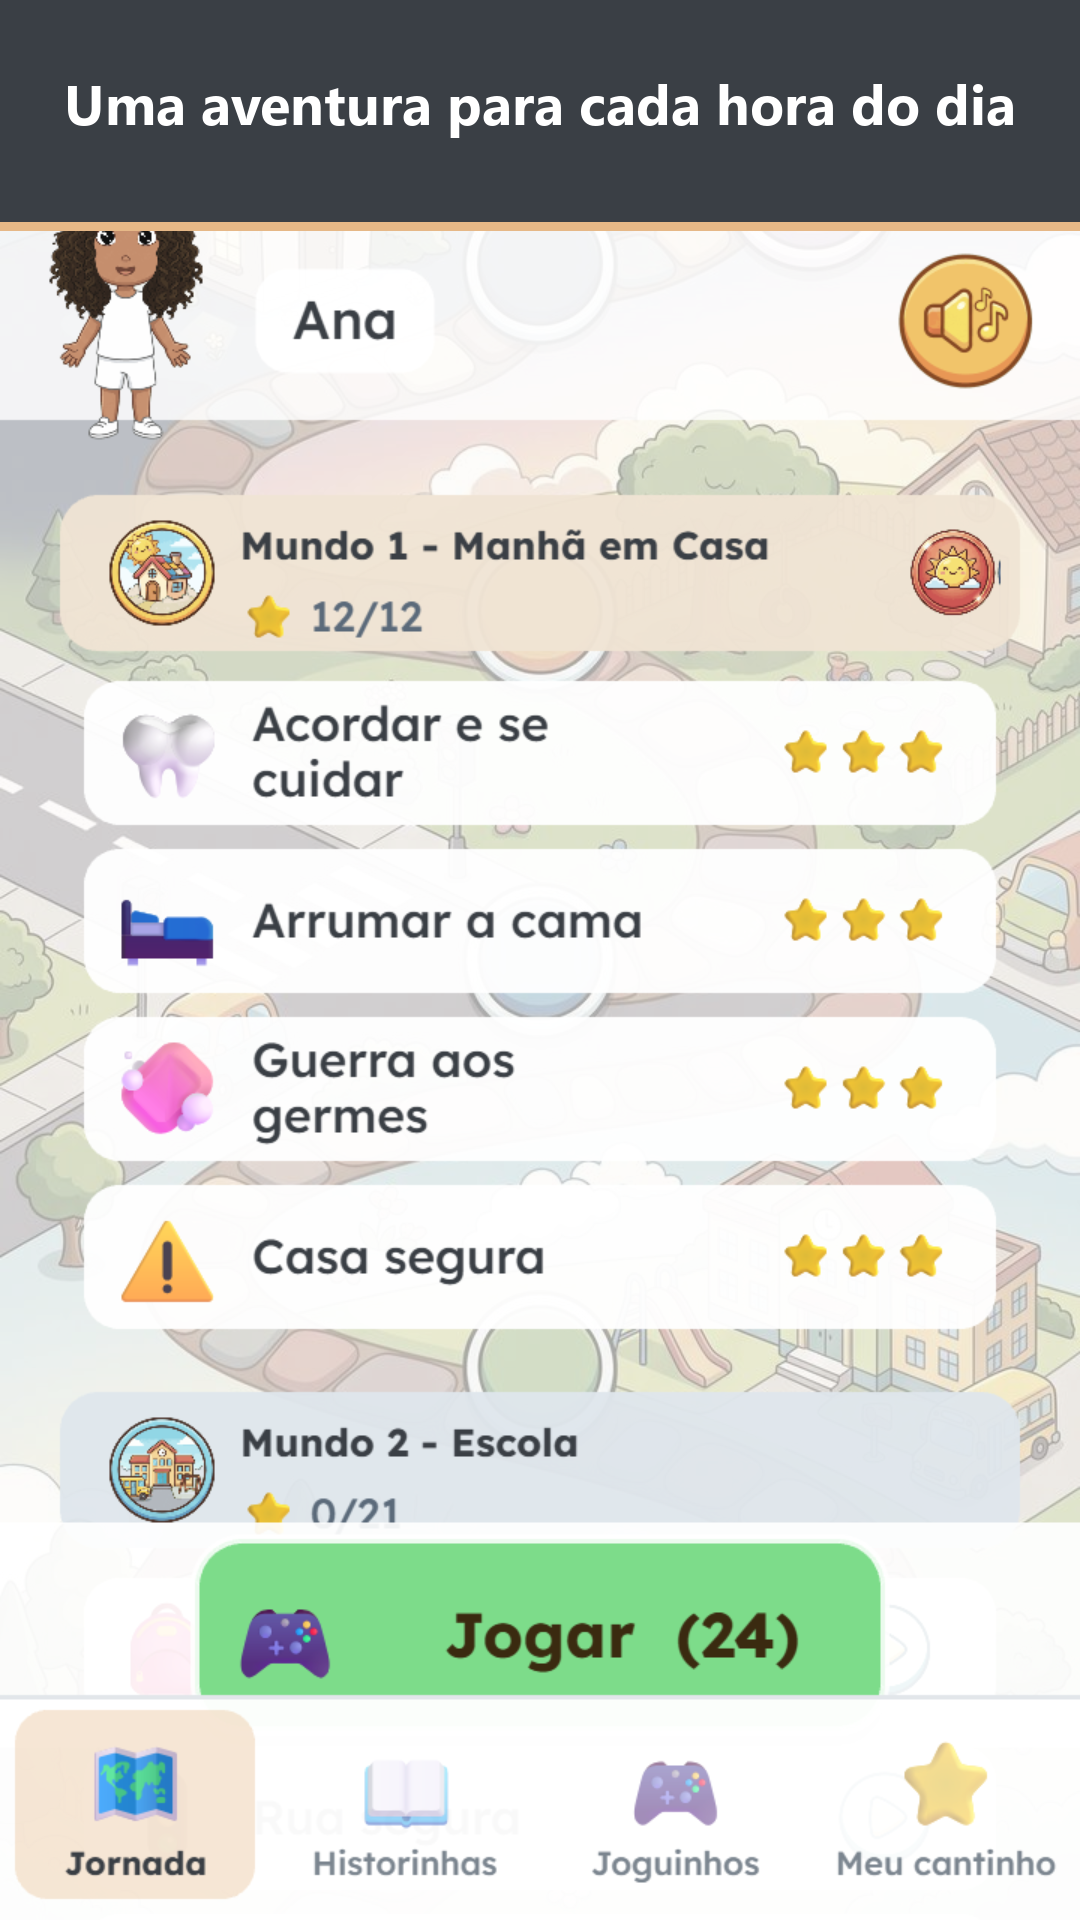
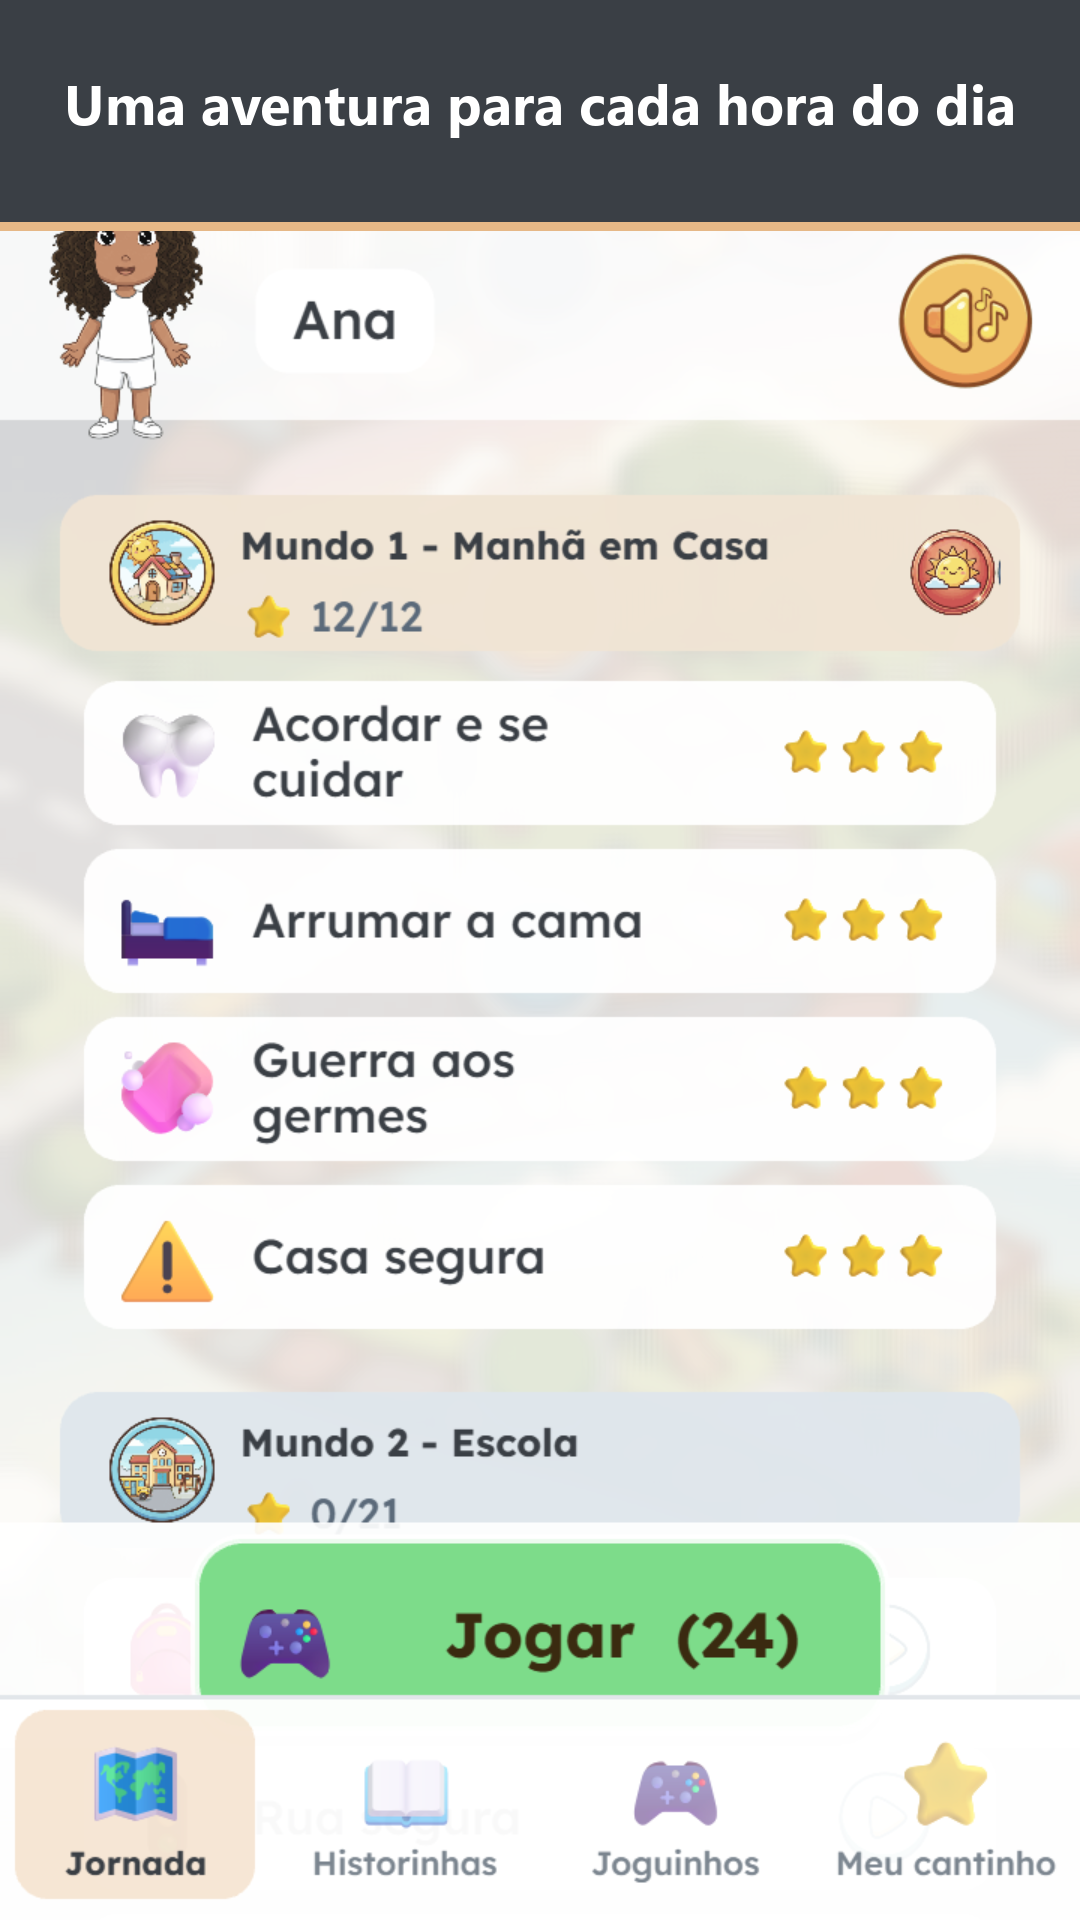
Varredura tela a tela: cartao unico, criador que cabe e memoria com cenario
Rodei as 28 missoes, os 5 mini games e as 10 telas num navegador, com print de
cada uma, e corrigi o que apareceu:

- Criador: a crianca a 1.15 passava por cima do titulo e dos botoes de aba. Com
  o cabelo volumoso nao cabia mesmo entre 120 e 630; agora entra a 0.78.
- Figura e nome eram dois paineis brancos empilhados, que viravam um degrau
  quando o nome tinha duas ou tres linhas ("Secar com a toalha"). Viraram um
  cartao so, que cresce com o texto. Vale para as etapas de ordenar e de tocar.
- "Segure e sopre! Faltam 3" era o unico texto do jogo sem painel: sumia no
  cenario do quarto de noite.
- Memoria era a unica tela sem cenario, um vazio creme no meio de um jogo
  ilustrado. Agora roda no quarto de brincar.
- A escolha de pista do kart era a unica tela escura: veu claro no lugar.

diff --git a/src/scenes/etapas.ts b/src/scenes/etapas.ts
@@ -48,14 +48,20 @@ const tocar: Handler = (c, e) => {
   const alvos = e.alvos ?? e.itens ?? [];
   let faltam = alvos.filter((a) => a.correto !== false).length;
   for (const a of alvos) {
-    // ladrilho claro: sem ele o objeto se perde no cenario
+    // ladrilho claro: sem ele o objeto se perde no cenario. Figura e nome no
+    // mesmo cartao, senao viram dois retangulos brancos em degrau
+    const rotulo = a.texto
+      ? c.cena.add
+          .text(a.x, a.y + 92, a.texto, { fontSize: '26px', align: 'center', wordWrap: { width: 148 } })
+          .setOrigin(0.5, 0)
+      : null;
     const base = c.cena.add.graphics();
     base.fillStyle(0xffffff, 0.97);
-    base.fillRoundedRect(a.x - 82, a.y - 82, 164, 164, 26);
+    base.fillRoundedRect(a.x - 82, a.y - 82, 164, 164 + (rotulo ? rotulo.height + 24 : 0), 26);
     c.camada.add(base);
     const f = figura(c.cena, a.x, a.y, a.img, a.icone, 140);
     c.camada.add(f);
-    if (a.texto) c.camada.add(textoEmPainel(c.cena, a.x, a.y + 124, a.texto, 26, 190));
+    if (rotulo) c.camada.add(rotulo);
     const zona = area(c.cena, a.x, a.y + 24, 184, 236, undefined, a.fala ?? a.texto);
     c.camada.add(zona);
     zona.on('pointerdown', () => {
@@ -273,9 +279,16 @@ const sequencia: Handler = (c, e) => {
   const itens = e.itens ?? [];
   let proximo = 0;
   itens.forEach((it, i) => {
+    // figura e nome no mesmo cartao: dois paineis brancos empilhados viravam
+    // um degrau feio quando o nome tinha duas ou tres linhas
+    const rotulo = it.texto
+      ? c.cena.add
+          .text(it.x, it.y + 92, it.texto, { fontSize: '26px', align: 'center', wordWrap: { width: 148 } })
+          .setOrigin(0.5, 0)
+      : null;
     const base = c.cena.add.graphics();
     base.fillStyle(0xffffff, 0.97);
-    base.fillRoundedRect(it.x - 82, it.y - 82, 164, 164, 26);
+    base.fillRoundedRect(it.x - 82, it.y - 82, 164, 164 + (rotulo ? rotulo.height + 24 : 0), 26);
     c.camada.add(base);
     const f = figura(c.cena, it.x, it.y, it.img, it.icone, 130);
     c.camada.add(f);
@@ -284,7 +297,7 @@ const sequencia: Handler = (c, e) => {
       .setOrigin(0.5)
       .setStroke('#ffffff', 8);
     c.camada.add(num);
-    if (it.texto) c.camada.add(textoEmPainel(c.cena, it.x, it.y + 124, it.texto, 26, 190));
+    if (rotulo) c.camada.add(rotulo);
     const zona = area(c.cena, it.x, it.y + 24, 184, 236, undefined, it.fala ?? it.texto);
     c.camada.add(zona);
     zona.on('pointerdown', () => {
@@ -308,9 +321,17 @@ const respirar: Handler = (c, e) => {
   let feitas = 0;
   const bola = c.cena.add.circle(W / 2, 760, 70, 0x8fd6ff, 0.9);
   const rotulo = c.cena.add
-    .text(W / 2, 1000, `Segure e sopre! Faltam ${total}`, { fontSize: '40px', color: '#2b3a4a' })
+    .text(W / 2, 980, `Segure e sopre! Faltam ${total}`, { fontSize: '40px', color: '#2b3a4a' })
     .setOrigin(0.5);
-  c.camada.add([bola, rotulo]);
+  // sem painel branco a frase sumia no cenario, como em toda outra etapa
+  const fundo = c.cena.add.graphics();
+  const pintar = () => {
+    fundo.clear();
+    fundo.fillStyle(0xffffff, 0.96);
+    fundo.fillRoundedRect(W / 2 - rotulo.width / 2 - 24, rotulo.y - rotulo.height / 2 - 12, rotulo.width + 48, rotulo.height + 24, 20);
+  };
+  pintar();
+  c.camada.add([bola, fundo, rotulo]);
   let tween: Phaser.Tweens.Tween | null = null;
 
   const zona = c.cena.add.zone(W / 2, 760, 420, 420).setInteractive({ useHandCursor: true });
@@ -332,6 +353,7 @@ const respirar: Handler = (c, e) => {
     feitas += 1;
     nota(880);
     rotulo.setText(feitas >= total ? 'Que calma boa!' : `Segure e sopre! Faltam ${total - feitas}`);
+    pintar();
     if (feitas >= total) c.cena.time.delayedCall(900, c.fim);
   });
 };

diff --git a/src/musica.ts b/src/musica.ts
@@ -25,25 +25,47 @@ const tocar = (som: HTMLAudioElement) =>
     window.addEventListener('pointerdown', retomar, { once: true });
   });
 
-/** Troca a faixa de fundo. A mesma chave duas vezes nao reinicia a musica. */
+/** Sobe ou desce o volume aos poucos; no fim de uma descida, pausa o som. */
+function esmaecer(som: HTMLAudioElement, ate: number, ms: number) {
+  const de = som.volume;
+  const passo = 50;
+  let passados = 0;
+  const t = setInterval(() => {
+    passados += passo;
+    const q = Math.min(1, passados / ms);
+    som.volume = Math.max(0, Math.min(1, de + (ate - de) * q));
+    if (q < 1) return;
+    clearInterval(t);
+    if (ate === 0) som.pause();
+  }, passo);
+}
+
+/**
+ * Troca a faixa de fundo. A mesma chave duas vezes nao reinicia a musica.
+ *
+ * A troca e esmaecida nos dois lados: cortar no seco da um clique audivel e,
+ * pior, chama a atencao da crianca para a troca de tela.
+ */
 export function musica(chave: string) {
   if (chave === chaveAtual) return;
   chaveAtual = chave;
-  tocando?.pause();
+  const antiga = tocando;
+  if (antiga) esmaecer(antiga, 0, 400);
   tocando = null;
   const url = ligada ? AUDIOS[chave] : undefined;
   if (!url) return;
   const som = new Audio(url);
   som.loop = true;
-  som.volume = volumeBase;
+  som.volume = 0;
   tocando = som;
   tocar(som);
+  esmaecer(som, volumeBase, 600);
 }
 
 /** Abaixa a musica enquanto outra coisa toca por cima (o timer musical). */
 export function abafarMusica(abafar: boolean) {
   volumeBase = abafar ? 0.12 : 0.35;
-  if (tocando) tocando.volume = volumeBase;
+  if (tocando) esmaecer(tocando, volumeBase, 300);
 }
 
 /** Liga/desliga pelo painel dos pais. Desligada, para na hora. */
@@ -53,8 +75,8 @@ export function setMusicaLigada(valor: boolean) {
     const chave = chaveAtual;
     chaveAtual = '';
     musica(chave);
-  } else {
-    tocando?.pause();
+  } else if (tocando) {
+    esmaecer(tocando, 0, 300);
     tocando = null;
   }
 }

diff --git a/src/minigames/memoria.ts b/src/minigames/memoria.ts
@@ -2,7 +2,7 @@ import Phaser from 'phaser';
 import { CONFIG } from '../config';
 import { fale } from '../narracoes';
 import { TEMA } from '../theme';
-import { figura, nota, textoEmPainel } from '../ui';
+import { figura, fundo, nota, textoEmPainel } from '../ui';
 import type { MiniGame, ResultadoMiniGame } from './index';
 
 const W = CONFIG.LARGURA;
@@ -30,7 +30,9 @@ function memoriaRodada(cena: Phaser.Scene, aoFim: (pontos: number) => void) {
   let pontos = 0;
   let travado = false;
 
-  const painel = textoEmPainel(cena, W / 2, 330, 'Ache os pares!', 40, W - 160);
+  // sem cenario a tela ficava um vazio creme no meio de um jogo todo ilustrado
+  fundo(cena, TEMA.creme, 'bg_quarto_brincar');
+  const painel = textoEmPainel(cena, W / 2, 300, 'Ache os pares!', 40, W - 160);
 
   baralho.forEach((idx, n) => {
     const x = W / 2 + ((n % 3) - 1) * 200;
@@ -85,7 +87,7 @@ function memoriaRodada(cena: Phaser.Scene, aoFim: (pontos: number) => void) {
 function bolhasRodada(cena: Phaser.Scene, jaTem: number, aoFim: (pontos: number) => void) {
   let pontos = jaTem;
   let restam = 12;
-  const painel = textoEmPainel(cena, W / 2, 330, 'Agora estoure as bolhas!', 40, W - 160);
+  const painel = textoEmPainel(cena, W / 2, 300, 'Agora estoure as bolhas!', 40, W - 160);
   fale('mg4_bolhas');
 
   const soltar = () => {
@@ -130,7 +132,7 @@ export const memoria: MiniGame = {
   tituloFim: 'Que memória boa!',
   fraseFim: 'mg4_fim',
   iconePonto: 'estrela',
-  arte: CARTAS,
+  arte: [...CARTAS, 'bg_quarto_brincar'],
   iniciar(cena) {
     return new Promise<ResultadoMiniGame>((resolve) => {
       fale('mg4_como_jogar');

diff --git a/src/ui.ts b/src/ui.ts
@@ -178,15 +178,29 @@ export function cobrirTela(cena: Phaser.Scene, cor: number, alpha = 1) {
   return cena.add.rectangle(W / 2, TELA.meio, W, TELA.altura, cor, alpha);
 }
 
-export function fundo(cena: Phaser.Scene, fundoCor: number, imagem?: string) {
+/**
+ * Cor de fundo, cenario por cima e um veu claro para o cenario nao brigar com
+ * os objetos da frente.
+ *
+ * `desfocar` tira o cenario de foco: nas telas de lista (mapa, historinhas,
+ * joguinhos) o que importa sao os cartoes, e o desenho atras so atrapalha a
+ * leitura. Sem WebGL o desfoque nao existe e o veu sozinho ja resolve.
+ */
+export function fundo(cena: Phaser.Scene, fundoCor: number, imagem?: string, desfocar = false) {
   centrarTela(cena);
   cena.cameras.main.fadeIn(TEMA.transicao, 0, 0, 0);
   cobrirTela(cena, fundoCor).setDepth(-10);
   if (!imagem || !cena.textures.exists(imagem)) return;
   const im = cena.add.image(W / 2, TELA.meio, imagem).setDepth(-9);
   im.setScale(Math.max(W / im.width, TELA.altura / im.height));
-  // veu: o cenario fica de pano de fundo, nao briga com os objetos da etapa
-  cobrirTela(cena, 0xfbf9f5, TEMA.veu).setDepth(-8);
+  if (desfocar) {
+    try {
+      im.preFX?.addBlur(0, 2, 2, 1.4);
+    } catch {
+      // sem WebGL: o veu abaixo ja da o recado
+    }
+  }
+  cobrirTela(cena, 0xfbf9f5, desfocar ? Math.min(0.78, TEMA.veu + 0.18) : TEMA.veu).setDepth(-8);
 }
 
 /** Carrega as capas que faltam e chama `pronto`. Atalho para as telas novas. */

diff --git a/src/scenes/Criador.ts b/src/scenes/Criador.ts
@@ -90,8 +90,10 @@ export class Criador extends Phaser.Scene {
 
   private desenharPreview() {
     this.preview.removeAll(true);
-    const boneco = desenharPersonagem(this, this.cfg, 1.15);
-    boneco.setPosition(W / 2, 420);
+    // cabe entre o titulo (120) e a faixa de abas (630): com cabelo volumoso
+    // a 1.15 a crianca passava por cima dos dois
+    const boneco = desenharPersonagem(this, this.cfg, 0.78);
+    boneco.setPosition(W / 2, 380);
     this.preview.add(boneco);
   }
 

diff --git a/src/minigames/corrida.ts b/src/minigames/corrida.ts
@@ -24,7 +24,8 @@ const PISTAS: Pista[] = [
 
 function escolherPista(cena: Phaser.Scene, aoEscolher: (p: Pista) => void) {
   const capa = cena.add.container(0, 0);
-  capa.add(cobrirTela(cena, 0x2e3338, 0.9));
+  // veu claro: era a unica tela escura de um jogo todo em tom pastel
+  capa.add(cobrirTela(cena, 0xfbf9f5, 0.93));
   capa.add(titulo(cena, 'Escolha a pista!', 220));
   fale('mg1_escolha_pista');
 

diff --git a/src/scenes/Historinhas.ts b/src/scenes/Historinhas.ts
@@ -30,7 +30,7 @@ export class Historinhas extends Phaser.Scene {
     this.p = ativo()!;
     narrador.setNome(this.p.nome);
     narrador.setVoz(this.p.voz ?? 'f');
-    fundo(this, TEMA.creme, 'bg_mapa_mundos');
+    fundo(this, TEMA.creme, 'bg_mapa_mundos', true);
     botaoOuvir(this);
     titulo(this, 'Historinhas', 170);
     narrador.falar('Escolha uma historinha para ouvir.', 'biblioteca_historias');

diff --git a/src/scenes/Joguinhos.ts b/src/scenes/Joguinhos.ts
@@ -32,7 +32,7 @@ export class Joguinhos extends Phaser.Scene {
     this.p = ativo()!;
     narrador.setNome(this.p.nome);
     narrador.setVoz(this.p.voz ?? 'f');
-    fundo(this, TEMA.creme, 'bg_mapa_mundos');
+    fundo(this, TEMA.creme, 'bg_mapa_mundos', true);
     botaoOuvir(this);
     titulo(this, 'Joguinhos', 170);
     narrador.falar('Escolha um joguinho. Aqui é só brincar!', 'biblioteca_jogos');

diff --git a/src/scenes/Mapa.ts b/src/scenes/Mapa.ts
@@ -41,7 +41,7 @@ export class Mapa extends Phaser.Scene {
       this.scene.start('Tutorial');
       return;
     }
-    fundo(this, TEMA.ceu, 'bg_mapa_mundos');
+    fundo(this, TEMA.ceu, 'bg_mapa_mundos', true);
     // veu claro: o cenario do mapa e bonito, mas briga com os cartoes
     
     // faixa do cabecalho: a lista rola por baixo e nao embola com o saldo

diff --git a/src/scenes/Cantinho.ts b/src/scenes/Cantinho.ts
@@ -31,7 +31,7 @@ export class Cantinho extends Phaser.Scene {
     this.p = ativo()!;
     narrador.setNome(this.p.nome);
     narrador.setVoz(this.p.voz ?? 'f');
-    fundo(this, TEMA.creme, 'bg_criador_personagem');
+    fundo(this, TEMA.creme, 'bg_criador_personagem', true);
     botaoOuvir(this);
     titulo(this, `O cantinho de ${this.p.nome}`, 170);
 
